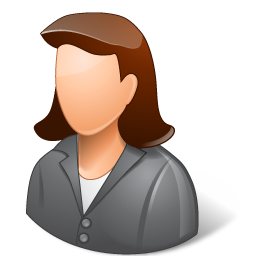
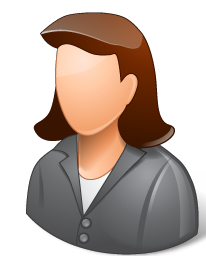
actor, director image added

diff --git a/mystyles.css b/mystyles.css
@@ -15,5 +15,5 @@
 
 .actor{
     height: 150px;
-    width: 150px;
+    width: 120px;
 }

diff --git a/actor.php b/actor.php
@@ -53,6 +53,7 @@ include 'header.php';
                                     echo "Female";
 
                                 ?></td>
+
                         </tr>
                         <tr>
                             <td>Total Movies</td>
@@ -69,6 +70,110 @@ include 'header.php';
             </div>
         </div>
     </div>
+</div>
+
+<hr>
+
+<div class="card">
+    <div class="card-body">
+        <div class="card-title">
+            <h4>Movies by <?php echo $row['actor_first_name'] . " " . $row['actor_last_name']; ?></h4>
+        </div>
+    </div>
+</div>
+
+<div class="row row-cols-1 row-cols-md-2 row-cols-lg-3 g-4">
+    <?php
+    $sqlmov = "SELECT movie_id FROM movie_cast WHERE actor_id = $act_id";
+    $find_mov_id = mysqli_query($conn, $sqlmov);
+    if (mysqli_num_rows($find_mov_id) > 0) {
+        while ($mov_id = mysqli_fetch_assoc($find_mov_id)) {
+            $fnl_mov_id = $mov_id['movie_id'];
+            $sql_mov_name = "SELECT * FROM movie WHERE movie_id = $fnl_mov_id";
+            $mov_det = mysqli_query($conn, $sql_mov_name);
+            while ($thmov = mysqli_fetch_assoc($mov_det)) {
+    ?>
+
+                <?php
+                $sql = "SELECT * FROM movie WHERE movie_id = $fnl_mov_id ORDER BY movie_year DESC";
+                $result = mysqli_query($conn, $sql);
+                if (mysqli_num_rows($result) > 0) {
+                    while ($row = mysqli_fetch_assoc($result)) {
+                        $mv_id = $row['movie_id'];
+                ?>
+
+
+
+
+                        <div class="col">
+                            <div class="card">
+                                <?php
+                                if (file_exists("images/thumbnail/$mv_id.jpg"))
+                                    $file_name = "$mv_id.jpg";
+                                else
+                                    $file_name = "default.png";
+                                ?>
+                                <img src="images/thumbnail/<?php echo $file_name; ?>" class="card-img-top" alt="...">
+                                <div class="card-body">
+                                    <h4 class="card-title"><a class="link-success text-decoration-none" href="<?php echo 'movie.php?movie_id=' . $mv_id; ?>"><?php echo $row['movie_title']; ?></a>&nbsp;<small class="small">(<?php echo $row['movie_year']; ?>)</small></h4>
+                                    <h5>Genre: </h5><span>
+                                        <?php
+
+                                        $gn_ids = "SELECT genre_id FROM movie_genre WHERE movie_id = $mv_id";
+                                        $r1 = mysqli_query($conn, $gn_ids);
+
+                                        if (mysqli_num_rows($r1) > 0) {
+                                            while ($gn_id = mysqli_fetch_assoc($r1)) {
+                                                $fnl_gn_id = $gn_id['genre_id'];
+                                                $gn_name = "SELECT genre_name FROM genres WHERE genre_id = $fnl_gn_id";
+                                                $gnname = mysqli_query($conn, $gn_name);
+                                                while ($gntbl = mysqli_fetch_assoc($gnname)) {
+                                                    echo "<a href='genre.php?genre_id=" . $fnl_gn_id . "' class='badge text-bg-info mx-1 text-decoration-none hover'>";
+                                                    echo $gntbl['genre_name'] . "</a>";
+                                                }
+                                            }
+                                        }
+
+                                        ?>
+                                    </span>
+                                    <h5>Cast: </h5><span>
+                                        <?php
+
+                                        $act_ids = "SELECT actor_id FROM movie_cast WHERE movie_id = $mv_id";
+                                        $r2 = mysqli_query($conn, $act_ids);
+
+                                        if (mysqli_num_rows($r2) > 0) {
+                                            while ($act_id = mysqli_fetch_assoc($r2)) {
+                                                $fnl_act_id = $act_id['actor_id'];
+                                                $act_name = "SELECT actor_first_name,actor_last_name,actor_id FROM actor WHERE actor_id = $fnl_act_id";
+                                                $actname = mysqli_query($conn, $act_name);
+                                                while ($acttbl = mysqli_fetch_assoc($actname)) {
+                                                    echo "<a href='actor.php?actor_id=" . $acttbl['actor_id'] . "' class='text-decoration-none text-dark hover'>";
+                                                    echo $acttbl['actor_first_name'] . " " . $acttbl['actor_last_name'] . "</a>... ";
+                                                }
+                                            }
+                                        }
+
+                                        ?>
+                                    </span>
+                                </div>
+                            </div>
+                        </div>
+
+                <?php
+                    }
+                }
+                ?>
+
+
+
+
+    <?php
+            }
+        }
+    }
+    ?>
+
 </div>
 
 

diff --git a/movie.php b/movie.php
@@ -85,7 +85,14 @@ include 'header.php';
                             <td>Runtime</td>
                             <td><?php
                                 $ttime = $result['movie_time'];
-                                echo $ttime;
+                                $mn = $ttime % 60;
+                                $ttime -= $mn;
+                                $hr = $ttime / 60;
+
+                                if ($hr > 0)
+                                    echo $hr . " hour ";
+                                if ($mn > 0)
+                                    echo $mn . " min";
 
                                 ?></td>
                         </tr>
@@ -94,7 +101,23 @@ include 'header.php';
                             <td>
                                 <?php
                                 $sqldir = "SELECT director_id FROM movie_direction WHERE movie_id = $mv_id";
-                                if (mysqli_num_rows($sql))
+                                $find_dir_id = mysqli_query($conn, $sqldir);
+                                if (mysqli_num_rows($find_dir_id) > 0) {
+                                    while ($dir_id = mysqli_fetch_assoc($find_dir_id)) {
+                                        $fnl_dr_id = $dir_id['director_id'];
+                                        $sql_dir_name = "SELECT * FROM director WHERE director_id = $fnl_dr_id";
+                                        $dir_name = mysqli_query($conn, $sql_dir_name);
+                                        while ($thdrnm = mysqli_fetch_assoc($dir_name)) {
+                                ?>
+                                            <a class="text-decoration-none text-dark hover" href="<?php echo "director.php?director_id=$fnl_dr_id"; ?>">
+                                                <?php
+                                                echo $thdrnm['director_first_name'] . " " . $thdrnm['director_last_name'] . "... ";
+                                                ?>
+                                            </a>
+                                <?php
+                                        }
+                                    }
+                                }
                                 ?>
                             </td>
                         </tr>
@@ -102,8 +125,8 @@ include 'header.php';
                             <td>Movie Language</td>
                             <td>
                                 <?php
-                            $lang = $result['movie_language'];
-                            echo $lang;
+                                $lang = $result['movie_language'];
+                                echo $lang;
                                 ?>
                             </td>
                         </tr>
